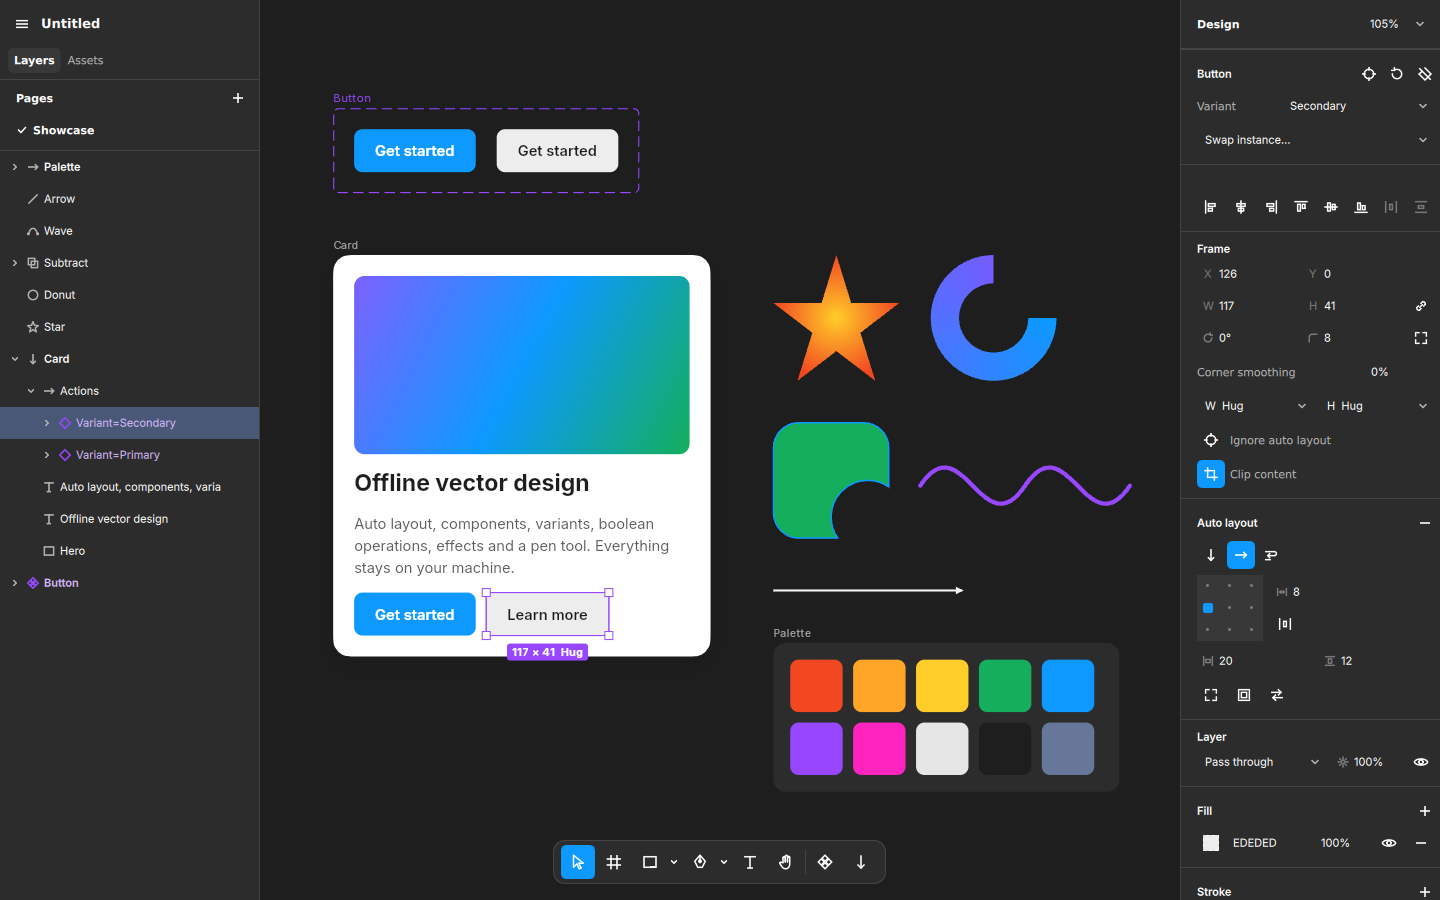
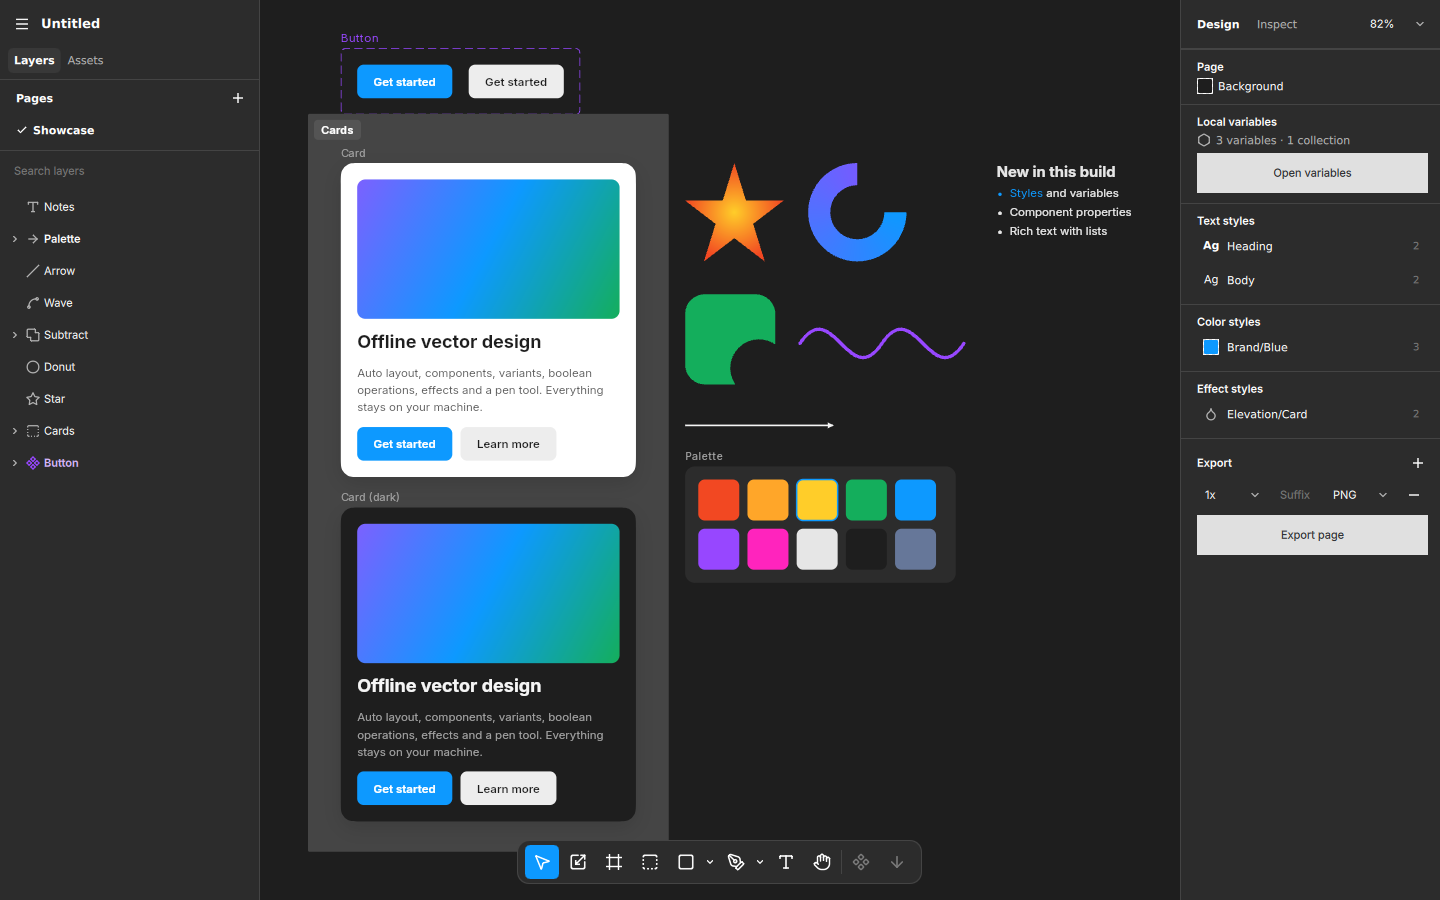
README: feature status, shortcuts, docs links
Claude-Session: https://claude.ai/code/session_01HkkzNR8ScF8A4R6TYKZ4kr

diff --git a/README.md b/README.md
@@ -6,25 +6,33 @@ Offline vector design tool. Desktop app, Qt 6.8 / QML UI, Skia GPU canvas. No ne
 
 ## Status
 
-Milestone 1 (core editor + auto layout + components) is in place. Linux is the supported target.
+Feature parity with Figma for offline, single-person UI/UX work, except prototyping. Linux is
+tested; macOS and Windows build and package through the same CMake setup but are untested.
 
 | Area | What works |
 | --- | --- |
-| Canvas | Infinite canvas, pan (Space/middle drag/scroll), zoom (Ctrl+scroll, pinch, Shift+0/1/2), pages, outline mode, layout grids, pixel snapping |
-| Layers | Frames, groups, rectangles, ellipses (arcs/donuts), polygons, stars, lines/arrows, vectors, text, boolean groups, masks |
-| Tools | Move/resize/rotate (Shift/Alt modifiers, flip by dragging past), marquee, drill-in selection, drag into/out of frames, smart snapping guides, frame, shapes, pen, pencil, text, hand, vector point editing |
-| Auto layout | Horizontal/vertical/wrap, gap, space-between, padding, 3×3 alignment, hug/fill/fixed sizing, min/max, absolute children, baseline, stroke inclusion, reverse z-order, drag-reorder inside layouts |
+| Canvas | Infinite canvas, pan (Space/middle drag/scroll), zoom (Ctrl+scroll, pinch, Shift+0/1/2), pages, outline mode, layout grids, pixel snapping, rulers and guides, Alt-hover measurements |
+| Layers | Frames, sections, groups, rectangles, ellipses (arcs/donuts), polygons, stars, lines/arrows, vectors, text, boolean groups, masks; layer search |
+| Tools | Move/resize/rotate (Shift/Alt modifiers, flip by dragging past), marquee, drill-in selection, drag into/out of frames, smart snapping guides, frame, section, shapes, pen, pencil, text, hand, scale tool (K), eyedropper (I), image crop |
+| Vectors | Vector networks (branching paths, open and closed regions, paint bucket to fill/unfill faces), point editing, union/subtract/intersect/exclude, flatten, outline stroke, corner radius, corner smoothing |
+| Auto layout | Horizontal/vertical/wrap/grid (column and row spans), gap, space-between, padding, 3×3 alignment, hug/fill/fixed sizing, min/max, absolute children, baseline, stroke inclusion, reverse z-order, drag-reorder |
 | Constraints | Left/right/left-right/center/scale (and vertical equivalents) on frame resize |
-| Components | Create, instances, per-property overrides, nested instances, reset overrides, detach, go to main, swap instance, variants (combine as variants, variant switcher) |
-| Paint | Solid, linear/radial/angular/diamond gradients, images (fill/fit/crop/tile), blend modes, multiple fills and strokes |
-| Strokes | Inside/center/outside, weight, joins, dashes, caps and arrowheads |
+| Components | Create, instances, per-property overrides, nested instances, reset/detach/go to main, swap, variants, component properties (boolean, text, instance swap) |
+| Styles and variables | Color, text, effect and grid styles; variable collections with modes (color, number, string, boolean), aliases, per-frame mode switching, binding to fills, strokes, sizes, spacing, radii, opacity, text and visibility |
+| Libraries | Link other `.drav` files: use their styles, variables and components; update when the source changes; unlink |
+| Paint | Solid, linear/radial/angular/diamond gradients, images (fill/fit/crop/tile) with exposure, contrast, saturation, temperature, tint, highlights and shadows; blend modes; multiple fills and strokes |
+| Strokes | Inside/center/outside, per-stroke weights, joins, dashes, caps and arrowheads, variable width profiles |
 | Effects | Drop shadow (with spread), inner shadow, layer blur, background blur |
-| Text | Font family (bundled Inter + system fonts), weight, italic, size, line height, letter/paragraph spacing, alignment, auto width/height/fixed/truncate, case, decoration; on-canvas editing |
-| Vector ops | Union/subtract/intersect/exclude, flatten, outline stroke, corner radius, Figma-style corner smoothing |
-| Files | Native `.drav` (CBOR), SVG import, image import/paste/drag-drop, export PNG/JPG/WEBP/SVG/PDF at any scale, export presets per layer |
-| Editing | Undo/redo for everything (typing, nudges, slider drags fold into one step), copy/paste (in place), duplicate, alt-drag copy, align/distribute, z-order, lock/hide, rename |
+| Text | Mixed styles in one layer (family, weight, size, color, decoration, case, links), bullet and numbered lists, OpenType features, variable font axes, text on a path, missing-font replacement; bundled Inter + system fonts |
+| Color | sRGB or Display P3 documents (assign or convert), color-managed canvas and P3-tagged exports |
+| Files | Native `.drav` (CBOR), Figma `.fig` import, SVG import, image import/paste/drag-drop, export PNG/JPG/WEBP/SVG/PDF at any scale, export presets, copy as PNG/SVG/CSS, inspect panel (CSS) |
+| Safety | Autosave and crash recovery, named version history, recent files |
+| Editing | Undo/redo for everything, copy/paste (in place), duplicate, alt-drag copy, align/distribute, z-order, lock/hide, rename and bulk rename, find and replace text, select matching layers |
+| Scripting | JavaScript console and plugins against a sandboxed `drav` API ([docs/scripting.md](docs/scripting.md)) |
+| Packaging | Self-contained install tree and CPack packages: `.tar.gz`, `.dmg`, `.zip` ([docs/packaging.md](docs/packaging.md)) |
 
-Not done yet (next milestones): `.fig` import, component properties (boolean/text/instance-swap), styles/variables, prototyping, vector networks (branching paths), mixed text styles in one layer, rulers/guides, comments, plugins, Windows/macOS packaging.
+Not done: prototyping, comments and multiplayer (out of scope offline). `.fig` import is written against
+Figma's published field names and tested on a generated fixture, not on real Figma exports — expect gaps.
 
 ## Performance
 
@@ -65,14 +73,17 @@ cmake --build build && ctest --test-dir build
 ./build/src/app/drav --demo
 ```
 
-Command-line options: `drav [file]`, `--demo`, `--select <layer name>`, `--screenshot <png>`, `--bench <seconds>`.
+Command-line options: `drav [file]`, `--demo`, `--select <layer name>`, `--script <js>`, `--show <objectName>`, `--screenshot <png>`, `--bench <seconds>`.
+
+Package: `scripts/package.sh` (see [docs/packaging.md](docs/packaging.md)).
 
 ## Layout
 
 ```
-src/core     document model, undo, auto layout, components, geometry, text, file format (no GUI)
-src/render   Skia renderer with picture caching, exporters
-src/app      editor state, tools, layer model, SVG import, GPU canvas item, main
+src/core     document model, undo, auto layout, components, styles/variables, libraries, vector networks,
+             geometry, text, color profiles, file format, .fig import (no GUI)
+src/render   Skia renderer with picture caching, exporters, CSS generation
+src/app      editor state, tools, layer model, SVG import, scripting, GPU canvas item, main
 qml          UI: layers/pages/assets, design inspector, toolbar, menus
 tests        core, render and editor (tool-driven) tests
 ```
@@ -103,6 +114,11 @@ The app never opens network connections. QML URL loading is restricted to bundle
 | Enter / Shift+Enter / Tab | Select children / parent / next sibling; edit text or vector |
 | 1–0 | Opacity 10–100% |
 | Shift+0 / 1 / 2, Ctrl+Y | Zoom 100% / fit / selection, outlines |
+| Shift+S / K / I | Section, scale tool, eyedropper |
+| Shift+R, Alt (hover) | Rulers, measure distances |
+| Ctrl+F / Ctrl+R / Ctrl+Alt+A | Find and replace, rename (bulk with several selected), select matching |
+| Ctrl+B / I / U (editing text) | Bold, italic, underline on the selected characters |
+| Ctrl+Enter (script console) | Run script |
 
 ## License
 
